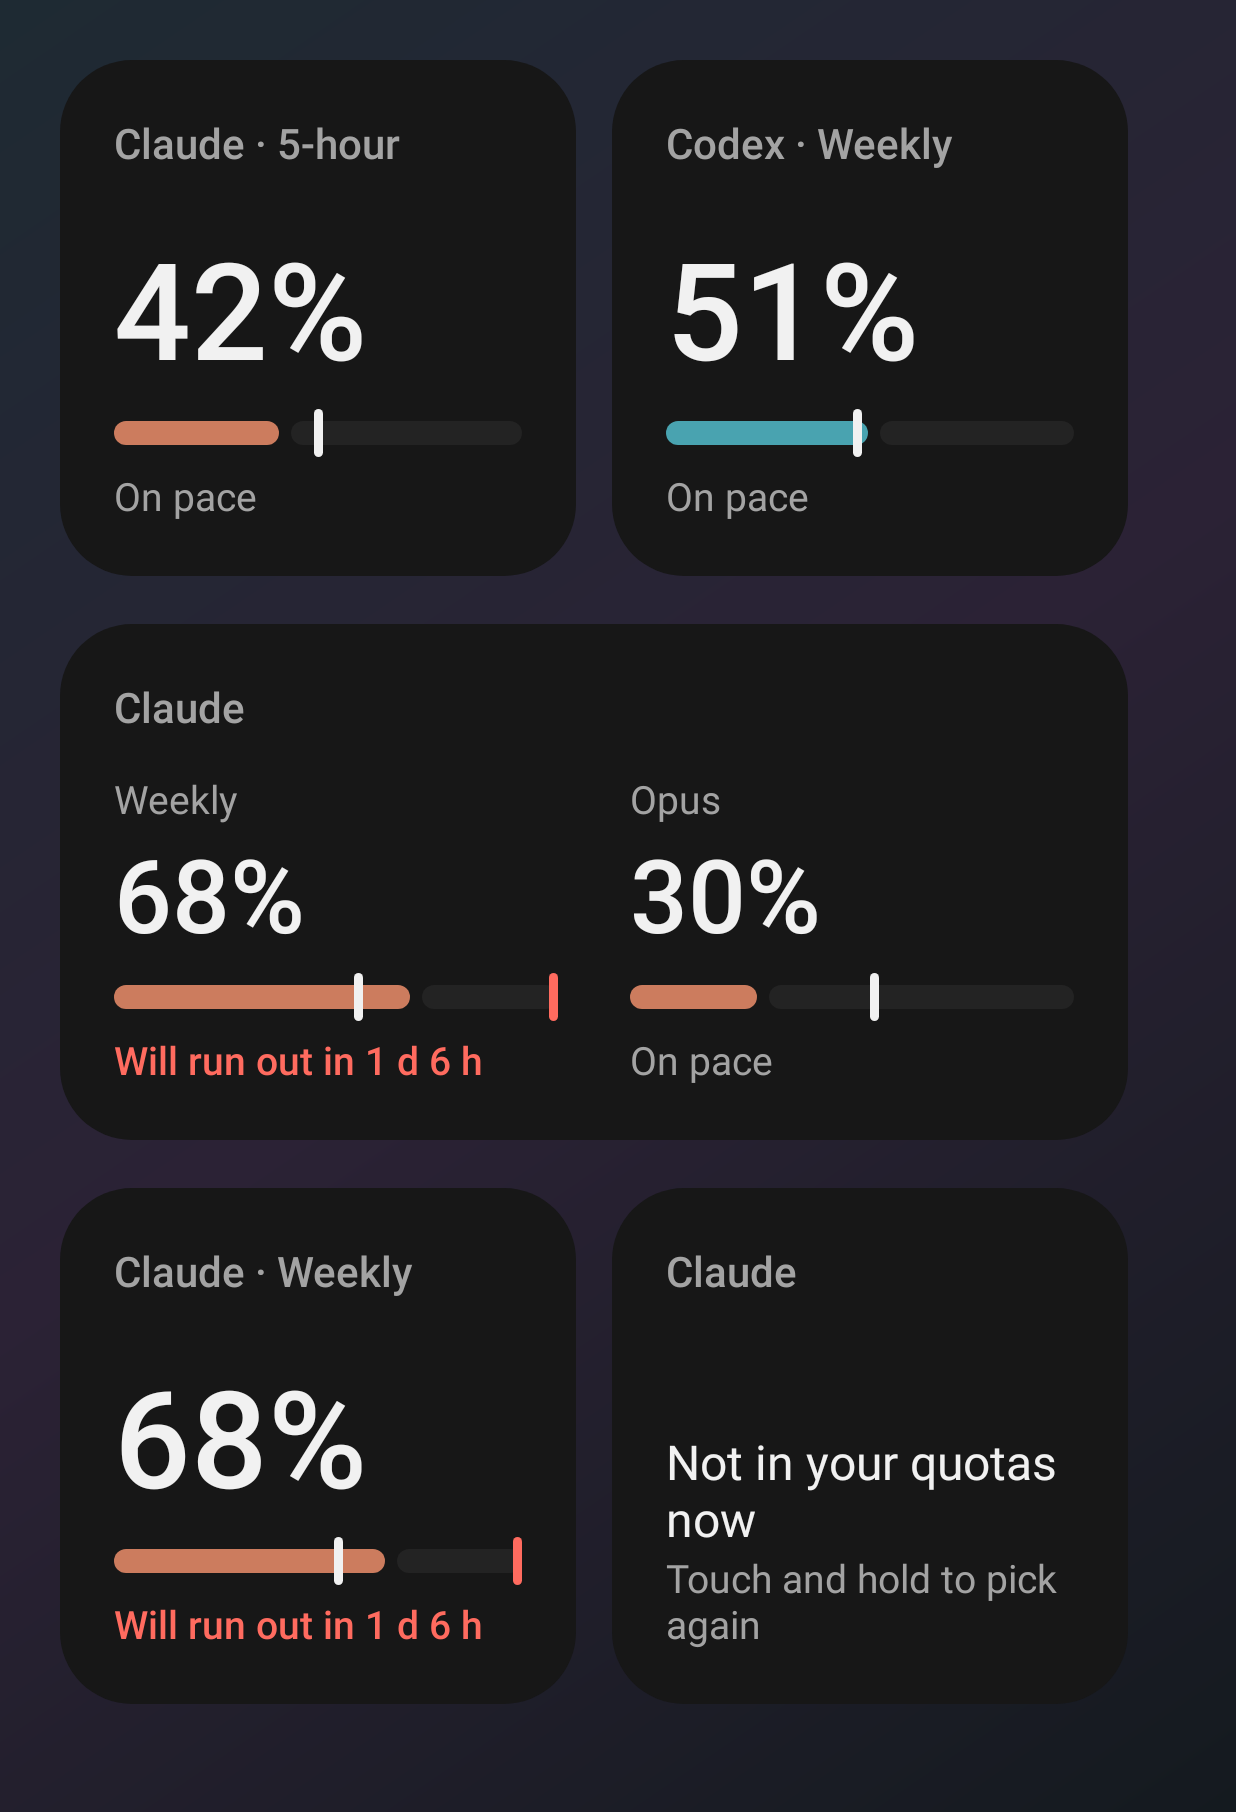
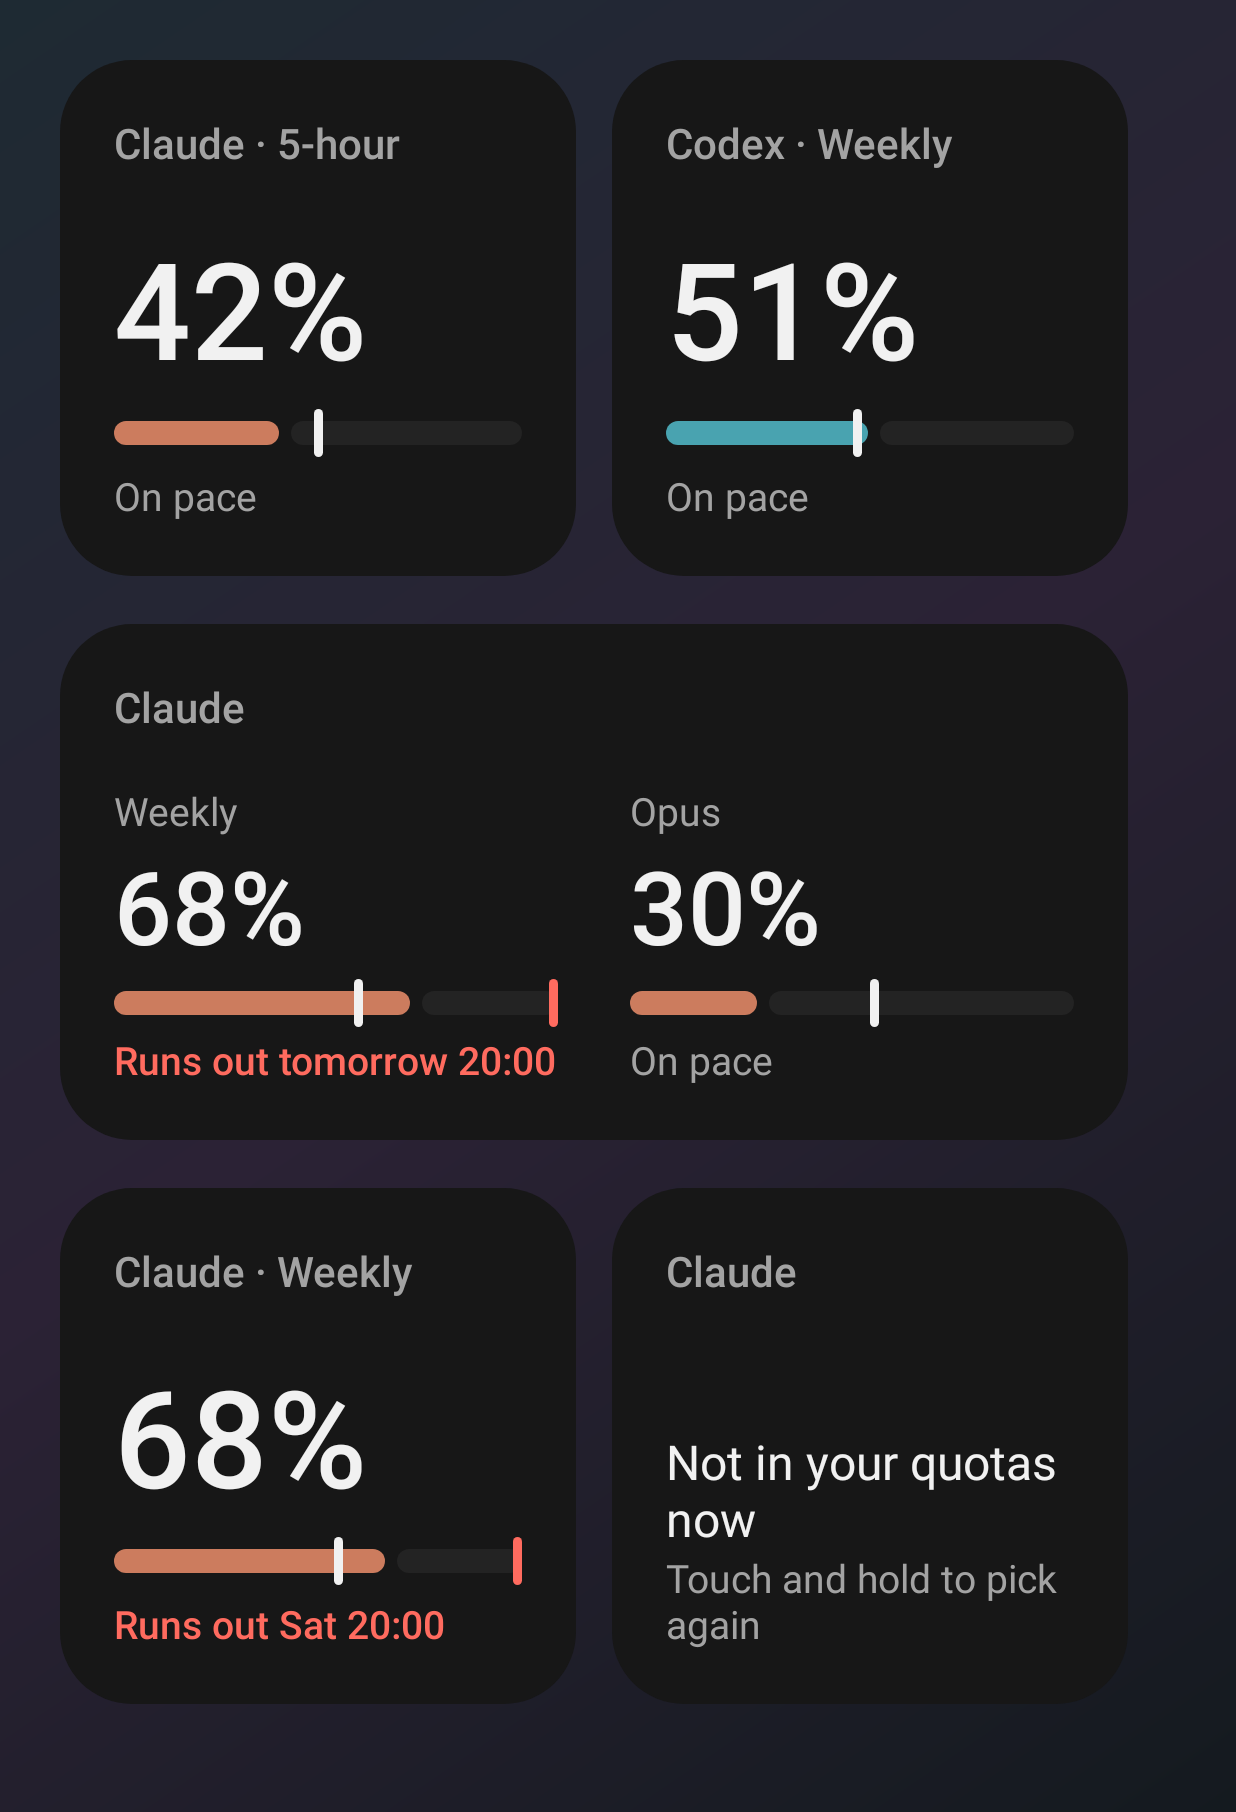
Android: the Quotas widget says when a window runs out in short words that fit (#912)

Changed region(s): [[0.0922, 0.4327, 0.4612, 0.6181], [0.4919, 0.4327, 0.6764, 0.5872], [0.0922, 0.8653, 0.3689, 0.9272]]

diff --git a/android/app/src/test/kotlin/dev/starbridge/app/QuotasWidgetTest.kt b/android/app/src/test/kotlin/dev/starbridge/app/QuotasWidgetTest.kt
@@ -18,6 +18,7 @@ import androidx.compose.ui.test.onRoot
 import androidx.compose.ui.test.performClick
 import androidx.compose.ui.unit.DpSize
 import androidx.compose.ui.unit.dp
+import androidx.compose.ui.unit.sp
 import androidx.compose.ui.viewinterop.AndroidView
 import androidx.datastore.preferences.core.mutablePreferencesOf
 import androidx.glance.ExperimentalGlanceApi
@@ -40,9 +41,14 @@ import dev.starbridge.app.widget.QuotaPicker
 import dev.starbridge.app.widget.QuotaRow
 import dev.starbridge.app.widget.QuotasWidget
 import dev.starbridge.app.widget.chosen
+import dev.starbridge.app.widget.fitting
+import dev.starbridge.app.widget.outWords
 import dev.starbridge.app.widget.pickerPlans
+import dev.starbridge.app.widget.textWidth
 import kotlinx.coroutines.runBlocking
 import org.junit.Assert.assertEquals
+import org.junit.Assert.assertTrue
+import org.junit.Before
 import org.junit.Rule
 import org.junit.Test
 import org.junit.runner.RunWith
@@ -51,6 +57,9 @@ import org.robolectric.annotation.Config
 import org.robolectric.annotation.GraphicsMode
 import java.time.Duration
 import java.time.Instant
+import java.time.ZoneOffset
+import java.util.Locale
+import java.util.TimeZone
 
 // Each Quotas widget shows the quotas picked for it (#907). Screenshots go to
 // app/screenshots/widgets/; android/docs/widgets/ keeps copies.
@@ -71,6 +80,11 @@ class QuotasWidgetTest {
         QuotaWindow("x5", "Codex", "5-hour", 23, now.plus(Duration.ofMinutes(200)), Pace.Even, steadyPercent = 40),
         QuotaWindow("xw", "Codex", "Weekly", 51, now.plus(Duration.ofDays(4)), Pace.Even, steadyPercent = 47),
     )
+
+    @Before fun utc() {
+        TimeZone.setDefault(TimeZone.getTimeZone("UTC"))
+        Locale.setDefault(Locale.US)
+    }
 
     private fun rows(plan: Plan?, from: List<QuotaWindow> = windows) = QuotaRow.of(from, QuotaSettings(), now, h24 = true, plan = plan)
 
@@ -112,6 +126,56 @@ class QuotasWidgetTest {
         assertEquals(Choice(claude, listOf("Opus", "Weekly")), picked)
     }
 
+    @Test fun aWindowThatRunsOutSaysWhenInWordsThatShortenToFit() {
+        // Friday 9 Oct, 14:00 UTC.
+        fun words(at: String, h24: Boolean = true, locale: Locale = Locale.US) = outWords(Instant.parse(at), now, h24, ZoneOffset.UTC, locale)
+        assertEquals(listOf("Runs out today 18:30", "Runs out Fri 18:30", "Out today 18:30", "Out Fri 18:30", "Out today", "Out Fri"), words("2026-10-09T18:30:00Z"))
+        assertEquals("Runs out tomorrow 6:44 AM", words("2026-10-10T06:44:00Z", h24 = false).first())
+        assertEquals(listOf("Runs out Mon 06:44", "Out Mon 06:44", "Out Mon"), words("2026-10-12T06:44:00Z"))
+        assertEquals("Out lun.", words("2026-10-12T06:44:00Z", locale = Locale.FRANCE).last())
+        // A week or more away, the date: a weekday would name the wrong one.
+        assertEquals("Runs out Oct 16 06:44", words("2026-10-16T06:44:00Z").first())
+        assertEquals(listOf("Ran out yesterday 22:00", "Ran out Thu 22:00", "Ran out yesterday", "Ran out Thu", "Ran out"), words("2026-10-08T22:00:00Z"))
+    }
+
+    private fun scaled(scale: Float, dark: Boolean = false): Context {
+        val base = ApplicationProvider.getApplicationContext<Context>()
+        return base.createConfigurationContext(
+            Configuration(base.resources.configuration).apply {
+                fontScale = scale
+                uiMode = (uiMode and Configuration.UI_MODE_NIGHT_MASK.inv()) or if (dark) Configuration.UI_MODE_NIGHT_YES else Configuration.UI_MODE_NIGHT_NO
+            },
+        )
+    }
+
+    /**
+     * The worst case (#912): the narrowest columns the widget draws a state in (a 2×2 at its
+     * 110 dp minimum, half a 4×2 at 250 dp, where it turns wide), beside a Pixel's 2×2 and 4×2;
+     * every short weekday of the languages below; font scales 1 and 1.3. The words shown always
+     * fit whole, never under 12 sp. The table, for the PR, gives each case's longest words.
+     */
+    @Test fun theWordsShownFitTheColumnAtEveryFontScale() {
+        val columns = listOf("2×2, 110 dp" to 110.dp - 36.dp, "2×2, 172 dp" to 172.dp - 36.dp, "4×2, 250 dp" to (250.dp - 36.dp - 24.dp) / 2, "4×2, 356 dp" to (356.dp - 36.dp - 24.dp) / 2)
+        val locales = listOf("en", "fr", "de", "es", "it", "pt", "nl", "pl", "sv", "da", "fi", "nb", "cs", "tr", "ro", "hu").map { Locale.forLanguageTag(it) }
+        val monday = Instant.parse("2026-10-05T06:44:00Z")
+        // Each weekday three days off, so it is named, not "tomorrow".
+        val cases = locales.flatMap { locale -> (0..6L).map { val at = monday.plus(Duration.ofDays(it)); outWords(at, at.minus(Duration.ofDays(3)), true, ZoneOffset.UTC, locale) } }
+        val table = StringBuilder()
+        for (scale in listOf(1f, 1.3f)) {
+            val context = scaled(scale)
+            for ((name, column) in columns) {
+                val shown = cases.map { context.fitting(it, column, 13.sp, true) }
+                shown.forEach { (words, size) ->
+                    assertTrue("\"$words\" at $size sp is over $column", context.textWidth(words, size, true) <= column)
+                    assertTrue("\"$words\" is set at $size sp", size.value >= 12f)
+                }
+                val (longest, size) = shown.maxBy { context.textWidth(it.first, it.second, true).value }
+                table.appendLine("| $scale | $name | ${column.value} dp | ${shown[0].first} | $longest${if (size != 13.sp) " at ${size.value} sp" else ""} |")
+            }
+        }
+        println(table)
+    }
+
     private fun picker(wide: Boolean, dark: Boolean, chosen: Choice?) {
         compose.setContent {
             StarbridgeTheme(darkTheme = dark, colours = Colours.Starbridge) {
@@ -132,24 +196,51 @@ class QuotasWidgetTest {
         override suspend fun provideGlance(context: Context, id: GlanceId) = provideContent { content() }
     }
 
-    @OptIn(ExperimentalGlanceApi::class)
+    private val small = DpSize(172.dp, 172.dp)
+    private val wide = DpSize(356.dp, 172.dp)
+
+    private fun widget(choice: Choice?, from: List<QuotaWindow> = windows) =
+        Sample { QuotasWidget(rows(choice?.plan, from), Palette.of(Colours.Starbridge), choice) }
+
     private fun widgets(dark: Boolean) {
-        val base = ApplicationProvider.getApplicationContext<Context>()
-        val context = base.createConfigurationContext(
-            Configuration(base.resources.configuration).apply {
-                uiMode = (uiMode and Configuration.UI_MODE_NIGHT_MASK.inv()) or if (dark) Configuration.UI_MODE_NIGHT_YES else Configuration.UI_MODE_NIGHT_NO
-            },
-        )
-        val p = Palette.of(Colours.Starbridge)
-        val small = DpSize(172.dp, 172.dp)
-        val wide = DpSize(356.dp, 172.dp)
-        fun widget(choice: Choice?, from: List<QuotaWindow> = windows) = Sample { QuotasWidget(rows(choice?.plan, from), p, choice) }
         val opus = Choice(claude, listOf("Opus"))
-        val lines = listOf(
-            listOf(widget(Choice(claude, listOf("5-hour"))) to small, widget(Choice(codex, listOf("Weekly"))) to small),
-            listOf(widget(Choice(claude, listOf("Weekly", "Opus"))) to wide),
-            listOf(widget(null) to small, widget(opus, windows.filter { it.id != "co" }) to small),
+        shoot(
+            "widgets-${if (dark) "dark" else "light"}",
+            dark,
+            listOf(
+                listOf(widget(Choice(claude, listOf("5-hour"))) to small, widget(Choice(codex, listOf("Weekly"))) to small),
+                listOf(widget(Choice(claude, listOf("Weekly", "Opus"))) to wide),
+                listOf(widget(null) to small, widget(opus, windows.filter { it.id != "co" }) to small),
+            ),
         )
+    }
+
+    /**
+     * Windows that run out (#912), tomorrow and on Monday: a 2×2 and a 4×2 at a Pixel's sizes,
+     * then each at the narrowest the widget draws it, 110 dp and 250 dp.
+     */
+    private fun runningOut(dark: Boolean, scale: Float = 1f) {
+        val weekly = Choice(claude, listOf("Weekly"))
+        val codexWeekly = Choice(codex, listOf("Weekly", "5-hour"))
+        // Codex's weekly runs out on Monday morning.
+        val monday = windows.map {
+            if (it.id == "xw") it.copy(usedPercent = 71, pace = Pace.RunsOut(Instant.parse("2026-10-12T06:44:00Z"))) else it
+        }
+        shoot(
+            "running-out-${if (dark) "dark" else "light"}${if (scale != 1f) "-font-$scale" else ""}",
+            dark,
+            listOf(
+                listOf(widget(weekly) to small, widget(weekly) to DpSize(110.dp, 172.dp)),
+                listOf(widget(codexWeekly, monday) to wide),
+                listOf(widget(codexWeekly, monday) to DpSize(250.dp, 172.dp)),
+            ),
+            scale,
+        )
+    }
+
+    @OptIn(ExperimentalGlanceApi::class)
+    private fun shoot(name: String, dark: Boolean, lines: List<List<Pair<GlanceAppWidget, DpSize>>>, scale: Float = 1f) {
+        val context = scaled(scale, dark)
         val density = context.resources.displayMetrics.density
         fun px(dp: Float) = (dp * density).toInt()
         val root = LinearLayout(context).apply {
@@ -176,9 +267,12 @@ class QuotasWidgetTest {
         }
         // Roborazzi captures views in an activity: the compose rule's.
         compose.setContent { AndroidView(factory = { root }, modifier = Modifier.fillMaxWidth()) }
-        compose.onRoot().captureRoboImage("screenshots/widgets/widgets-${if (dark) "dark" else "light"}.png")
+        compose.onRoot().captureRoboImage("screenshots/widgets/$name.png")
     }
 
     @Test fun widgetsLight() = widgets(dark = false)
     @Test fun widgetsDark() = widgets(dark = true)
+    @Test fun runningOutLight() = runningOut(dark = false)
+    @Test fun runningOutDark() = runningOut(dark = true)
+    @Test fun runningOutAtFontScale13() = runningOut(dark = false, scale = 1.3f)
 }

diff --git a/android/app/src/main/kotlin/dev/starbridge/app/widget/Widgets.kt b/android/app/src/main/kotlin/dev/starbridge/app/widget/Widgets.kt
@@ -2,8 +2,12 @@ package dev.starbridge.app.widget
 
 import android.content.Context
 import android.content.Intent
+import android.graphics.Paint
+import android.graphics.Typeface
 import android.os.Build
+import android.text.TextPaint
 import android.text.format.DateFormat
+import android.util.TypedValue
 import androidx.compose.runtime.Composable
 import androidx.compose.runtime.collectAsState
 import androidx.compose.runtime.getValue
@@ -53,12 +57,15 @@ import dev.starbridge.app.MainActivity
 import dev.starbridge.app.data.Clock
 import dev.starbridge.app.data.Colours
 import dev.starbridge.app.data.Decision
+import dev.starbridge.app.data.Pace
 import dev.starbridge.app.data.Phase
 import dev.starbridge.app.data.Prefs
 import dev.starbridge.app.data.QuotaSettings
 import dev.starbridge.app.data.QuotaWindow
 import dev.starbridge.app.data.Store
 import dev.starbridge.app.di.app
+import dev.starbridge.app.ui.clock
+import dev.starbridge.app.ui.day
 import dev.starbridge.app.ui.inbox.snoozed
 import dev.starbridge.app.ui.quotas.Course
 import dev.starbridge.app.ui.quotas.Mood
@@ -69,12 +76,18 @@ import dev.starbridge.app.ui.theme.DarkProviders
 import dev.starbridge.app.ui.theme.LightColors
 import dev.starbridge.app.ui.theme.LightProviders
 import dev.starbridge.app.ui.theme.StarbridgeColors
+import dev.starbridge.app.ui.weekday
 import kotlinx.coroutines.CoroutineScope
 import kotlinx.coroutines.FlowPreview
 import kotlinx.coroutines.flow.combine
 import kotlinx.coroutines.flow.debounce
 import kotlinx.coroutines.launch
 import java.time.Instant
+import java.time.ZoneId
+import java.time.temporal.ChronoUnit
+import java.util.Locale
+import kotlin.math.abs
+import kotlin.math.floor
 
 // The home-screen widgets (#894): "Needs you", the count of questions, and Quotas. Glance draws
 // them as RemoteViews, so they follow the app's look with Glance's means: the tokens as day and
@@ -253,8 +266,19 @@ internal fun List<QuotaRow>.chosen(choice: Choice, count: Int): List<QuotaRow> {
     return (picked + filter { Plan.of(it.window) == choice.plan && it !in picked }).take(count)
 }
 
-/** A window as a widget row: its bar on the owner's scale, where it is headed, and its state in words. */
-internal class QuotaRow(val window: QuotaWindow, val bar: QuotaSettings.Bar, val course: Course, val mood: Mood, val word: String) {
+/**
+ * A window as a widget row: its bar on the owner's scale, where it is headed, and its state in
+ * words: the Quotas screen's [word] for the picker, and [words], clearest first, for [Figure] to
+ * show the first that fits.
+ */
+internal class QuotaRow(
+    val window: QuotaWindow,
+    val bar: QuotaSettings.Bar,
+    val course: Course,
+    val mood: Mood,
+    val word: String,
+    val words: List<String>,
+) {
     /** The figure and the fill: a window that ran out reads 100% used, as on the Quotas screen. */
     val percent: Int get() = if (course == Course.RanOut && bar.word == "used") 100 else bar.percent.coerceIn(0, 100)
 
@@ -268,10 +292,56 @@ internal class QuotaRow(val window: QuotaWindow, val bar: QuotaSettings.Bar, val
             else settings.copy(hidden = emptyList()).arrange(windows, now).filter { Plan.of(it) == plan }
             return arranged.map { w ->
                 val (mood, word) = w.state(now, settings.absoluteResets, h24)
-                QuotaRow(w, settings.bar(w, now), w.course(now), mood, word)
+                val course = w.course(now)
+                val at = (w.pace as? Pace.RunsOut)?.at
+                QuotaRow(w, settings.bar(w, now), course, mood, word, if (course == Course.Steady || at == null) listOf(word) else outWords(at, now, h24))
             }
         }
     }
+}
+
+/**
+ * The widget's own words for a window that runs out or ran out (#912), clearest first, each
+ * shorter than the last: "Runs out tomorrow 06:44", "Runs out Sat 06:44", "Out Sat 06:44",
+ * "Out Sat". The Quotas screen's sentence is cut off in a widget's column. Always a clock time,
+ * never "in 3 h": a launcher redraws a widget only every 30 minutes.
+ */
+internal fun outWords(at: Instant, now: Instant, h24: Boolean, zone: ZoneId = ZoneId.systemDefault(), locale: Locale = Locale.getDefault()): List<String> {
+    val time = clock(at, h24, zone, locale)
+    val today = now.atZone(zone).toLocalDate()
+    val date = at.atZone(zone).toLocalDate()
+    val near = when (date) {
+        today -> "today"
+        today.plusDays(1) -> "tomorrow"
+        today.minusDays(1) -> "yesterday"
+        else -> null
+    }
+    // A weekday names a day within a week either way; further off, the date.
+    val far = if (abs(ChronoUnit.DAYS.between(today, date)) < 7) weekday(at, zone, locale) else day(at, zone, locale)
+    val days = listOfNotNull(near, far)
+    val words = if (at.isAfter(now)) days.map { "Runs out $it $time" } + days.map { "Out $it $time" } + days.map { "Out $it" }
+    else days.map { "Ran out $it $time" } + days.map { "Ran out $it" } + "Ran out"
+    return words.distinct()
+}
+
+/** How wide [text] sets in the widgets' sans (Glance's FontWeight.Medium is sans-serif-medium), under the phone's font scale. */
+internal fun Context.textWidth(text: String, size: TextUnit, medium: Boolean): Dp {
+    val metrics = resources.displayMetrics
+    val paint = TextPaint(Paint.ANTI_ALIAS_FLAG).apply {
+        textSize = TypedValue.applyDimension(TypedValue.COMPLEX_UNIT_SP, size.value, metrics)
+        typeface = Typeface.create(if (medium) "sans-serif-medium" else "sans-serif", Typeface.NORMAL)
+    }
+    return (paint.measureText(text) / metrics.density).dp
+}
+
+/**
+ * The first of [words] that fits [width] whole at [size]. When none does (Polish "Out niedz." at
+ * font scale 1.3 in a 2×2 at its narrowest), the last, the shortest, set smaller to fit.
+ */
+internal fun Context.fitting(words: List<String>, width: Dp, size: TextUnit, medium: Boolean): Pair<String, TextUnit> {
+    words.firstOrNull { textWidth(it, size, medium) <= width }?.let { return it to size }
+    val last = words.last()
+    return last to (floor(size.value * width.value / textWidth(last, size, medium).value * 2) / 2).sp
 }
 
 /**
@@ -361,7 +431,8 @@ internal fun QuotasWidget(rows: List<QuotaRow>?, p: Palette, choice: Choice? = n
                     if (i > 0) Spacer(GlanceModifier.width(gap))
                     Column(GlanceModifier.width(half)) {
                         Text(row.window.window, style = style(13.sp, p.fg2), maxLines = 1)
-                        Figure(row, half, p, figure = 34.sp)
+                        // 2 dp gaps, under a quota's name: at font scale 1.3 a 4×2 is full.
+                        Figure(row, half, p, figure = 34.sp, gap = 2.dp)
                     }
                 }
             }
@@ -402,14 +473,16 @@ internal fun QuotasWidget(rows: List<QuotaRow>?, p: Palette, choice: Choice? = n
     }
 }
 
-/** A quota as the 2×2 draws it: its figure, its meter and its state. */
+/** A quota as the 2×2 draws it: its figure, its meter and its state, in the clearest words that fit [width]. */
 @Composable
-private fun Figure(row: QuotaRow, width: Dp, p: Palette, figure: TextUnit = 45.sp) {
+private fun Figure(row: QuotaRow, width: Dp, p: Palette, figure: TextUnit = 45.sp, gap: Dp = 4.dp) {
     Text("${row.percent}%", style = style(figure, p.fg, medium = true), maxLines = 1)
-    Spacer(GlanceModifier.height(4.dp))
+    Spacer(GlanceModifier.height(gap))
     Meter(row, width, p)
-    Spacer(GlanceModifier.height(4.dp))
-    Text(row.word, style = style(13.sp, row.mood.color(p), medium = row.mood == Mood.Bad), maxLines = 1)
+    Spacer(GlanceModifier.height(gap))
+    val medium = row.mood == Mood.Bad
+    val (words, size) = LocalContext.current.fitting(row.words, width, 13.sp, medium)
+    Text(words, style = style(size, row.mood.color(p), medium = medium), maxLines = 1)
 }
 
 class QuotasWidget : GlanceAppWidget() {

diff --git a/android/app/src/main/kotlin/dev/starbridge/app/ui/Time.kt b/android/app/src/main/kotlin/dev/starbridge/app/ui/Time.kt
@@ -52,6 +52,10 @@ fun clock(at: Instant, h24: Boolean, zone: ZoneId = ZoneId.systemDefault(), loca
 fun day(at: Instant, zone: ZoneId = ZoneId.systemDefault(), locale: Locale = Locale.getDefault()): String =
     format("MMMd", locale).withZone(zone).format(at)
 
+/** The weekday, short, in the phone's language: "Mon", "lun." */
+fun weekday(at: Instant, zone: ZoneId = ZoneId.systemDefault(), locale: Locale = Locale.getDefault()): String =
+    format("EEE", locale).withZone(zone).format(at)
+
 /**
  * A clock time in a sentence: "at 15:55" today, "tomorrow at 10:15", "yesterday at 10:15", else
  * "on Oct 8 at 10:15".

diff --git a/SPEC.md b/SPEC.md
@@ -1028,6 +1028,15 @@ first window, so a provider with a window running out leads.
   these from mockups over one-tap answers on a wider Needs you, a runs widget and taller sizes.
   RemoteViews cannot load the app's fonts, so the widgets set in the system's sans, and Glance
   draws no paths, so a meter's overrun shows only its red cap.
+- **A Quotas widget says when a window runs out in its own short words** (#912), in red:
+  "Runs out tomorrow 06:44", else "Runs out Mon 06:44", "Out Mon 06:44", "Out Mon", the first
+  that fits its column whole, measured at the phone's font scale; "Ran out yesterday 22:00"
+  shortens the same way. The weekday and time follow the phone's language, zone and the Clock
+  setting; a week or more away, the date replaces the weekday. The Quotas screen's sentence
+  ("Will run out on 13 Oct at 06:44") was cut off in a widget's column, losing the time. The
+  widget always gives a clock time, never "in 3 h", since a launcher redraws it only every 30
+  minutes. Where even "Out Mon" does not fit (Polish "niedz." at font scale 1.3 in a 2×2 at its
+  110 dp minimum), it sets smaller (12.5 sp there) rather than cut off.
 - **Each Quotas widget shows the quotas picked for it** (#907). Dropping one opens a picker, as
   Todoist's and Keep's widgets do; Reconfigure on a long press opens it again. A 2×2 takes one
   quota, in one tap; a 4×2 takes two of one plan, side by side as the 2×2 draws one: a plan with
